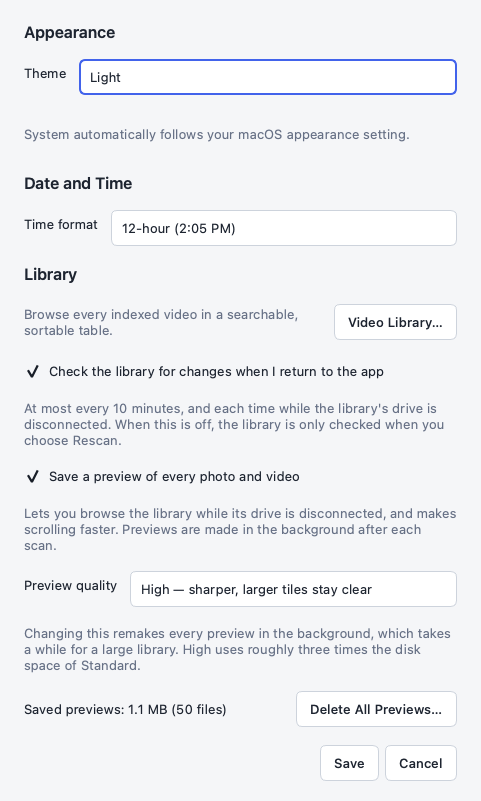
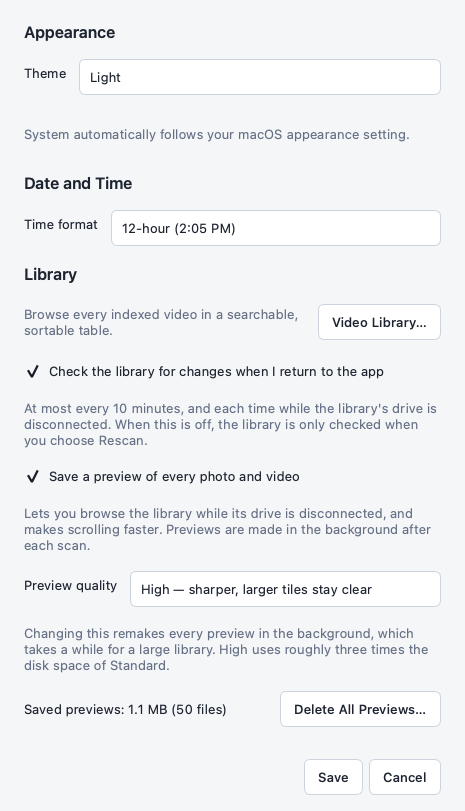
Let Settings scroll, so a large system font can't hide its buttons
Windows CI caught two explanations still being cut off: how many lines
wrapped text takes depends on the system font, so a label now claims the
height its own width needs whenever it is resized. The settings sit in a
scroll area with Save and Cancel below it, and the dialog opens as tall
as its content needs, capped by the screen.

diff --git a/onthisday/ui/dialogs.py b/onthisday/ui/dialogs.py
@@ -1,6 +1,7 @@
-from PySide6.QtCore import Signal
-from PySide6.QtWidgets import (QCheckBox, QComboBox, QDialog, QDialogButtonBox, QFormLayout, QHBoxLayout, QLabel,
-                               QPushButton, QSizePolicy, QVBoxLayout)
+from PySide6.QtCore import Qt, Signal
+from PySide6.QtWidgets import (QApplication, QCheckBox, QComboBox, QDialog, QDialogButtonBox, QFormLayout,
+                               QFrame, QHBoxLayout, QLabel, QPushButton, QScrollArea, QSizePolicy, QVBoxLayout,
+                               QWidget)
 
 from ..core.metadata import format_file_size
 from ..core.preview_cache import CacheUsage
@@ -8,17 +9,32 @@ from ..core.settings import DEFAULT_PREVIEW_QUALITY, PREVIEW_HIGH, PREVIEW_STAND
 from ..core.timeformat import TIME_12_HOUR, TIME_24_HOUR
 
 
-def note(text: str) -> QLabel:
-    """An explanation under a setting. Wrapped text needs the height its width implies, or the
-    dialog opens too short and the last line is cut off."""
-    label = QLabel(text)
-    label.setProperty("muted", True)
-    label.setWordWrap(True)
-    policy = label.sizePolicy()
-    policy.setHeightForWidth(True)
-    policy.setVerticalPolicy(QSizePolicy.Policy.MinimumExpanding)
-    label.setSizePolicy(policy)
-    return label
+class Note(QLabel):
+    """An explanation under a setting.
+
+    Wrapped text needs the height its own width implies. Asking for that through the size policy
+    isn't enough on every platform: how many lines the text takes depends on the system font, so
+    the height is claimed again whenever the label is resized, and the dialog grows to fit.
+    """
+
+    def __init__(self, text: str, parent=None):
+        super().__init__(text, parent)
+        self.setProperty("muted", True)
+        self.setWordWrap(True)
+        policy = self.sizePolicy()
+        policy.setHeightForWidth(True)
+        policy.setVerticalPolicy(QSizePolicy.Policy.MinimumExpanding)
+        self.setSizePolicy(policy)
+
+    def resizeEvent(self, event) -> None:
+        super().resizeEvent(event)
+        needed = self.heightForWidth(self.width())
+        if needed != self.minimumHeight():  # grows and shrinks, so an earlier width leaves no gap
+            self.setMinimumHeight(needed)
+
+
+def note(text: str) -> Note:
+    return Note(text)
 
 
 class PreferencesDialog(QDialog):
@@ -31,7 +47,19 @@ class PreferencesDialog(QDialog):
         self.setWindowTitle("Settings")
         self.setModal(True)
         self.setMinimumWidth(390)
-        layout = QVBoxLayout(self)
+        # The settings scroll, so a large system font or a small screen can't hide the buttons.
+        outer = QVBoxLayout(self)
+        outer.setContentsMargins(0, 0, 0, 0)
+        outer.setSpacing(0)
+        self._scroll = scroll = QScrollArea()
+        self._sized = False
+        scroll.setWidgetResizable(True)
+        scroll.setFrameShape(QFrame.Shape.NoFrame)
+        scroll.setHorizontalScrollBarPolicy(Qt.ScrollBarPolicy.ScrollBarAlwaysOff)
+        content = QWidget()
+        scroll.setWidget(content)
+        outer.addWidget(scroll, 1)
+        layout = QVBoxLayout(content)
         layout.setContentsMargins(24, 22, 24, 20)
         layout.setSpacing(18)
         heading = QLabel("Appearance")
@@ -109,7 +137,32 @@ class PreferencesDialog(QDialog):
         buttons = QDialogButtonBox(QDialogButtonBox.StandardButton.Cancel | QDialogButtonBox.StandardButton.Save)
         buttons.accepted.connect(self.accept)
         buttons.rejected.connect(self.reject)
-        layout.addWidget(buttons)
+        button_row = QWidget()
+        button_layout = QVBoxLayout(button_row)
+        button_layout.setContentsMargins(24, 12, 24, 16)
+        button_layout.addWidget(buttons)
+        outer.addWidget(button_row)
+        # A scroll area's own hint ignores what's inside it, so the dialog is sized from the content:
+        # a comfortable reading width, and tall enough for the settings unless the screen is smaller.
+        width = max(self.minimumWidth(), min(content.sizeHint().width(), 480))
+        needed = content.sizeHint().height() + button_row.sizeHint().height()
+        self.resize(width, min(needed, self._room_on_screen()))
+
+    def showEvent(self, event) -> None:
+        super().showEvent(event)
+        if self._sized:
+            return
+        self._sized = True
+        # How much taller the laid-out settings are than the room they were given: wrapped text
+        # takes the height its final width needs, which is only known once it has been laid out.
+        short_by = self._scroll.widget().height() - self._scroll.viewport().height()
+        if short_by > 0:
+            self.resize(self.width(), min(self.height() + short_by, self._room_on_screen()))
+
+    @staticmethod
+    def _room_on_screen() -> int:
+        screen = QApplication.primaryScreen()
+        return round(screen.availableGeometry().height() * 0.9) if screen else 900
 
     def set_cache_usage(self, usage: CacheUsage | None, deleting: bool = False) -> None:
         """Show how much the saved previews take; None while they're being counted."""

diff --git a/tests/test_settings_ui.py b/tests/test_settings_ui.py
@@ -10,7 +10,8 @@ import unittest
 from pathlib import Path
 from unittest.mock import patch
 
-from PySide6.QtWidgets import QApplication, QLabel
+from PySide6.QtGui import QFont
+from PySide6.QtWidgets import QApplication, QDialogButtonBox, QLabel
 
 from onthisday.core import settings as settings_module
 from onthisday.core.constants import HIGH_THUMBNAIL_EDGE, THUMBNAIL_EDGE
@@ -28,14 +29,32 @@ class DialogTests(unittest.TestCase):
         self.addCleanup(dialog.deleteLater)
         return dialog
 
-    def test_every_note_is_shown_in_full(self):
-        dialog = self.dialog()
+    def shown(self, **options) -> PreferencesDialog:
+        dialog = self.dialog(**options)
         dialog.show()
         APP.processEvents()
+        APP.processEvents()
+        self.addCleanup(dialog.hide)
+        return dialog
+
+    def test_every_note_is_shown_in_full(self):
+        dialog = self.shown()
         clipped = [label.text() for label in dialog.findChildren(QLabel)
                    if label.wordWrap() and label.height() < label.heightForWidth(label.width())]
         self.assertEqual(clipped, [], "the dialog opened too short, cutting off explanations")
-        dialog.hide()
+
+    def test_a_large_system_font_scrolls_rather_than_hiding_the_buttons(self):
+        was = APP.font()
+        self.addCleanup(APP.setFont, was)
+        APP.setFont(QFont(was.family(), 22))  # like a high-DPI Windows setup at 150%
+        dialog = self.shown()
+        self.assertLessEqual(dialog.height(), dialog._room_on_screen(), "taller than the screen")
+        buttons = dialog.findChild(QDialogButtonBox)
+        self.assertTrue(buttons.isVisible())
+        self.assertLessEqual(buttons.geometry().bottom(), dialog.height(), "Save and Cancel are off the dialog")
+        clipped = [label.text() for label in dialog.findChildren(QLabel)
+                   if label.wordWrap() and label.height() < label.heightForWidth(label.width())]
+        self.assertEqual(clipped, [])
 
     def test_video_library_button_asks_to_open_it_and_closes_settings(self):
         dialog = self.dialog()

diff --git a/tools/make_screenshots.py b/tools/make_screenshots.py
@@ -11,6 +11,7 @@ import os
 import random
 import sys
 import tempfile
+from unittest.mock import patch
 from datetime import date, datetime
 from pathlib import Path
 
@@ -185,13 +186,16 @@ def main() -> int:
         from onthisday.core.preview_cache import cache_usage
         from onthisday.ui.dialogs import PreferencesDialog
 
-        dialog = PreferencesDialog(window.settings.theme, window.settings.save_previews,
-                                   window.settings.time_format, window,
-                                   auto_rescan=window.settings.auto_rescan,
-                                   preview_quality=window.settings.preview_quality)
-        dialog.set_cache_usage(cache_usage())
-        dialog.show()
-        qt_app.processEvents()
+        # The headless screen is short, so give the dialog room to show every setting at once.
+        with patch.object(PreferencesDialog, "_room_on_screen", staticmethod(lambda: 2000)):
+            dialog = PreferencesDialog(window.settings.theme, window.settings.save_previews,
+                                       window.settings.time_format, window,
+                                       auto_rescan=window.settings.auto_rescan,
+                                       preview_quality=window.settings.preview_quality)
+            dialog.set_cache_usage(cache_usage())
+            dialog.show()
+            qt_app.processEvents()
+            qt_app.processEvents()
         dialog.grab().save(str(OUTPUT / "settings.png"))
         print(f"Wrote {OUTPUT / 'settings.png'}")
         dialog.close()

diff --git a/CHANGELOG.md b/CHANGELOG.md
@@ -7,7 +7,7 @@ With every change, bump `VERSION` in `onthisday/core/constants.py` and add an en
 - The gallery is a grid of square tiles, like Photos: each picture fills its tile, with no filename, folder or buttons in the way. **⌘=** and **⌘−** zoom (so do ⌘-scroll and pinch), **⌘0** goes back to the default, and the size is remembered. Right-click a tile for Open and Move to Trash; hovering shows its name and time.
 - Previews are sharper. They keep the whole picture instead of padding it into a fixed box, and **Settings > Preview quality** chooses High (1024 px, the default) or Standard (512 px). The first scan after this update remakes every saved preview in the new format, which takes a while for a large library.
 - **Video Library** moved from the toolbar to **Settings > Video Library…**; **⌘⇧V** still opens it.
-- Settings no longer opens too short to show the explanations under each setting.
+- Settings no longer opens too short to show the explanations under each setting, and on a small screen or with a large system font it scrolls instead of pushing Save and Cancel off the bottom.
 - The Media by year chart in Library Insights fills its card instead of stopping half way across.
 - The viewer's photo zoom keys (**⌘=**, **⌘−**, **⌘0**) work again; the new tile-size shortcuts no longer take them while the viewer is open.
 - README screenshots are regenerated by `tools/make_screenshots.py`, which now also captures the viewer and Settings.
